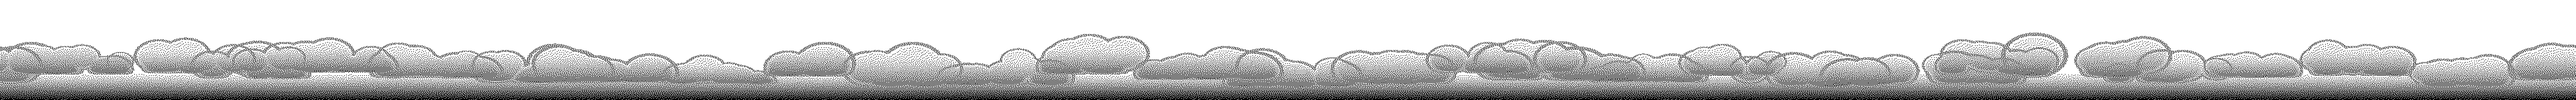
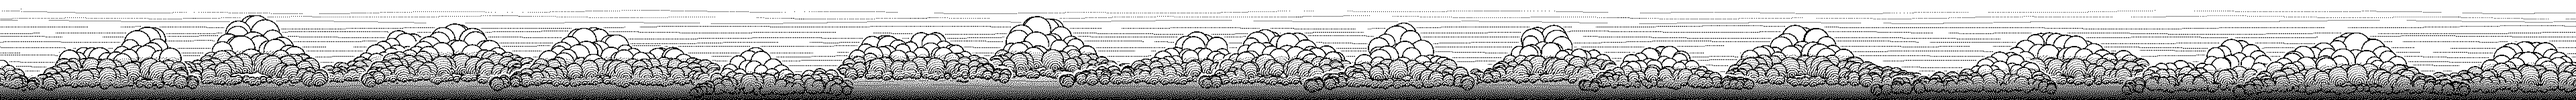
Engraved sky for light theme, static dividers and CTA, lighter Contact
- Light theme sky redrawn in an engraving style: cumulus clouds with
  scalloped outlines, white tops and swirled shading underneath, over fine
  wavy lines, with small birds. Used for the six section dividers, the
  final CTA backdrop, and the cloud bank above the footer. The lines fade
  out around the CTA words.
- Dividers (both themes): the reveal plays once when first scrolled to,
  then they stay still. Removed the drift and the stardust shimmer.
- Final CTA (both themes): removed the floating, grain, and drifting
  motion. The stars still twinkle in the dark theme.
- Header: the Contact buttons now use the same font weight as the
  "Gilmer Perez" logo (300).
- Removed images that are no longer used.

Claude-Session: https://claude.ai/code/session_01A1VqEuwrkmMr14CqJk9vdN

diff --git a/src/components/Contact/Contact.module.css b/src/components/Contact/Contact.module.css
@@ -44,18 +44,17 @@
 
 /* ---------- Backdrop ---------- */
 /* Every layer is a 2x mask image, 3840 CSS px wide, shown at natural size and
-   tinted with the theme's dither color. Layers are a little wider than the
-   window so they can drift; all movement is in whole pixels (steps) so the
-   dots never blur. */
+   tinted with the theme's dither color. Only the stars move (they twinkle). */
 .layer {
   top: 10px;
   left: 50%;
   z-index: 0;
+  width: 100vw;
   height: 680px;
   position: absolute;
+  margin-left: -50vw;
   pointer-events: none;
-  width: calc(100vw + 120px);
-  margin-left: calc(-50vw - 60px);
+  background-color: var(--dither);
 }
 
 :global(html[data-theme="light"]) .night,
@@ -64,11 +63,6 @@
 }
 
 /* Dark theme: twinkling stardust, two frames crossfading */
-.starsA,
-.starsB {
-  background-color: var(--dither);
-}
-
 .starsA {
   animation: twinkleA 5s ease-in-out infinite;
   -webkit-mask: url("/dither/cta-stars-a.png") center top / auto 680px no-repeat;
@@ -81,52 +75,18 @@
   mask: url("/dither/cta-stars-b.png") center top / auto 680px no-repeat;
 }
 
-/* Dark theme: planets, galaxies, a comet, constellations, and nebula dust. The
-   whole layer floats up and down a few pixels while its two frames (same
-   shapes, different grain) fade into each other. */
+/* Dark theme: planets, galaxies, a comet, constellations, and nebula dust */
 .space {
   opacity: 0.75;
-  animation: float 18s steps(8) infinite alternate;
-}
-
-.spaceA,
-.spaceB {
-  inset: 0;
-  position: absolute;
-  background-color: var(--dither);
-}
-
-.spaceA {
   -webkit-mask: url("/dither/cta-space-a.png") center top / auto 680px no-repeat;
   mask: url("/dither/cta-space-a.png") center top / auto 680px no-repeat;
 }
 
-.spaceB {
-  opacity: 0;
-  -webkit-mask: url("/dither/cta-space-b.png") center top / auto 680px no-repeat;
-  mask: url("/dither/cta-space-b.png") center top / auto 680px no-repeat;
-  animation: grain 7s ease-in-out infinite;
-}
-
-/* Light theme: clouds drift one way, wind and birds the other */
-.clouds,
-.wind,
-.bank {
-  background-color: var(--dither);
-}
-
-.clouds {
+/* Light theme: engraved sky around the words */
+.sky {
   opacity: 0.8;
-  -webkit-mask: url("/dither/cta-sky-clouds.png") center top / auto 680px no-repeat;
-  mask: url("/dither/cta-sky-clouds.png") center top / auto 680px no-repeat;
-  animation: driftRight 48s steps(48) infinite alternate;
-}
-
-.wind {
-  opacity: 0.75;
-  -webkit-mask: url("/dither/cta-sky-wind.png") center top / auto 680px no-repeat;
-  mask: url("/dither/cta-sky-wind.png") center top / auto 680px no-repeat;
-  animation: driftLeft 36s steps(72) infinite alternate;
+  -webkit-mask: url("/dither/cta-sky.png") center top / auto 680px no-repeat;
+  mask: url("/dither/cta-sky.png") center top / auto 680px no-repeat;
 }
 
 /* The cloud bank sits on the bottom edge, where the section meets the footer */
@@ -136,7 +96,6 @@
   height: 150px;
   -webkit-mask: url("/dither/cta-sky-bank.png") center bottom / auto 150px no-repeat;
   mask: url("/dither/cta-sky-bank.png") center bottom / auto 150px no-repeat;
-  animation: driftRight 64s steps(48) infinite alternate;
 }
 
 /* Kept faint so the stars stay in the background */
@@ -157,43 +116,6 @@
   }
   50% {
     opacity: 0.45;
-  }
-}
-
-@keyframes grain {
-  0%,
-  100% {
-    opacity: 0;
-  }
-  50% {
-    opacity: 1;
-  }
-}
-
-@keyframes float {
-  from {
-    transform: translateY(4px);
-  }
-  to {
-    transform: translateY(-4px);
-  }
-}
-
-@keyframes driftRight {
-  from {
-    transform: translateX(-24px);
-  }
-  to {
-    transform: translateX(24px);
-  }
-}
-
-@keyframes driftLeft {
-  from {
-    transform: translateX(36px);
-  }
-  to {
-    transform: translateX(-36px);
   }
 }
 

diff --git a/src/components/Divider/Divider.module.css b/src/components/Divider/Divider.module.css
@@ -10,16 +10,13 @@
   pointer-events: none;
 }
 
-/* ---------- Light theme: sky with clouds, wind, and birds ---------- */
-/* A little wider than the page so it can drift from side to side. The drift
-   moves in whole pixels (steps) so the dots never blur. */
+/* ---------- Light theme: engraved sky with clouds and birds ---------- */
 .sky {
-  inset: 0 -30px;
+  inset: 0;
   position: absolute;
   background-color: var(--dither);
   -webkit-mask: var(--art) center / auto var(--h) no-repeat;
   mask: var(--art) center / auto var(--h) no-repeat;
-  animation: drift 44s steps(40) infinite alternate;
 }
 
 /* ---------- Dark theme: the stardust braid ---------- */
@@ -41,24 +38,12 @@
   display: block;
 }
 
-/* Two frames of the same braid with different dust; the second fades in and
-   out over the first so the dust shimmers */
 .stream {
   inset: 0;
   position: absolute;
   background-color: var(--dither);
-}
-
-.streamA {
   -webkit-mask: url("/dither/dv-braid-a.png") center / auto 120px no-repeat;
   mask: url("/dither/dv-braid-a.png") center / auto 120px no-repeat;
-}
-
-.streamB {
-  opacity: 0;
-  -webkit-mask: url("/dither/dv-braid-b.png") center / auto 120px no-repeat;
-  mask: url("/dither/dv-braid-b.png") center / auto 120px no-repeat;
-  animation: shimmer 6s ease-in-out infinite;
 }
 
 /* Small bright points that race out along the center line during the reveal */
@@ -127,24 +112,5 @@
   100% {
     opacity: 0;
     transform: translateX(52vw);
-  }
-}
-
-@keyframes drift {
-  from {
-    transform: translateX(-20px);
-  }
-  to {
-    transform: translateX(20px);
-  }
-}
-
-@keyframes shimmer {
-  0%,
-  100% {
-    opacity: 0;
-  }
-  50% {
-    opacity: 1;
   }
 }

diff --git a/src/components/Contact/Contact.jsx b/src/components/Contact/Contact.jsx
@@ -5,21 +5,18 @@ function Contact() {
   return (
     <section id="contact" className={styles.contact}>
       {/* Backdrop, edge to edge, kept clear of the words.
-          Dark theme: twinkling stardust plus planets, galaxies, a comet, and constellations
-          (two frames each that fade into one another, so everything shimmers).
-          Light theme: the sky above the footer, with drifting clouds, wind, and birds, and a
-          bank of cloud along the bottom that thickens into the footer's blue. */}
+          Dark theme: twinkling stardust (two frames that fade into each other) behind
+          planets, galaxies, a comet, and constellations.
+          Light theme: the sky above the footer, engraving style, with cumulus clouds and
+          birds over fine wavy lines, and a bank of cloud along the bottom that thickens
+          into the footer's blue. */}
       <div aria-hidden="true" className={styles.night}>
         <div className={`${styles.layer} ${styles.starsA}`}></div>
         <div className={`${styles.layer} ${styles.starsB}`}></div>
-        <div className={`${styles.layer} ${styles.space}`}>
-          <div className={styles.spaceA}></div>
-          <div className={styles.spaceB}></div>
-        </div>
+        <div className={`${styles.layer} ${styles.space}`}></div>
       </div>
       <div aria-hidden="true" className={styles.day}>
-        <div className={`${styles.layer} ${styles.clouds}`}></div>
-        <div className={`${styles.layer} ${styles.wind}`}></div>
+        <div className={`${styles.layer} ${styles.sky}`}></div>
         <div className={`${styles.layer} ${styles.bank}`}></div>
       </div>
 

diff --git a/src/components/Divider/Divider.jsx b/src/components/Divider/Divider.jsx
@@ -3,13 +3,13 @@ import { useEffect, useRef } from "react";
 import styles from "./Divider.module.css";
 
 // * A dithered band between sections.
-// Light theme: a strip of sky with clouds, wind lines, and small birds. There
-// are six strips; the `sky` prop (1 to 6) picks one.
+// Light theme: a strip of engraved sky, with cumulus clouds and small birds over
+// fine wavy lines. There are six strips; the `sky` prop (1 to 6) picks one.
 // Dark theme: every divider is the same braid, two stardust streams crossing
 // like sound waves around a dotted center line.
 // The first time a divider scrolls into view it draws itself out from the
 // center (in the dark theme two glints also race to the edges). After that
-// the sky drifts slowly and the stardust shimmers.
+// it stays still.
 
 function Divider({ sky = 1 }) {
   const ref = useRef(null);
@@ -39,8 +39,7 @@ function Divider({ sky = 1 }) {
     <div ref={ref} aria-hidden="true" className={styles.divider}>
       <div className={styles.sky} style={{ "--art": `url("/dither/dv-sky-${sky}.png")` }}></div>
       <div className={styles.braid}>
-        <span className={`${styles.stream} ${styles.streamA}`}></span>
-        <span className={`${styles.stream} ${styles.streamB}`}></span>
+        <span className={styles.stream}></span>
         <span className={`${styles.glint} ${styles.glintLeft}`}></span>
         <span className={`${styles.glint} ${styles.glintRight}`}></span>
       </div>

diff --git a/src/components/Header/Header.module.css b/src/components/Header/Header.module.css
@@ -33,6 +33,7 @@
 
 /* Logo */
 .logo {
+  font-weight: 300;
   font-size: 24px;
   letter-spacing: -0.01em;
   font-family: var(--font-heading);
@@ -72,6 +73,12 @@
   background: var(--primary);
   box-shadow: 0 0 8px rgba(var(--primary-rgb), 0.8);
   transition: transform 0.5s var(--ease), width 0.5s var(--ease), opacity 0.3s ease;
+}
+
+/* Contact buttons use the same weight as the logo */
+.header .contactButton,
+.header .mobileContact {
+  font-weight: 300;
 }
 
 /* Hamburger button (mobile only) */

diff --git a/src/components/Header/Header.jsx b/src/components/Header/Header.jsx
@@ -153,7 +153,7 @@ function Header() {
             </Link>
           ))}
           <span ref={indicatorRef} aria-hidden="true" className={styles.indicator}></span>
-          <Link href="/#contact" className="btn btn-primary btn-small">
+          <Link href="/#contact" className={`btn btn-primary btn-small ${styles.contactButton}`}>
             Contact
           </Link>
         </nav>
